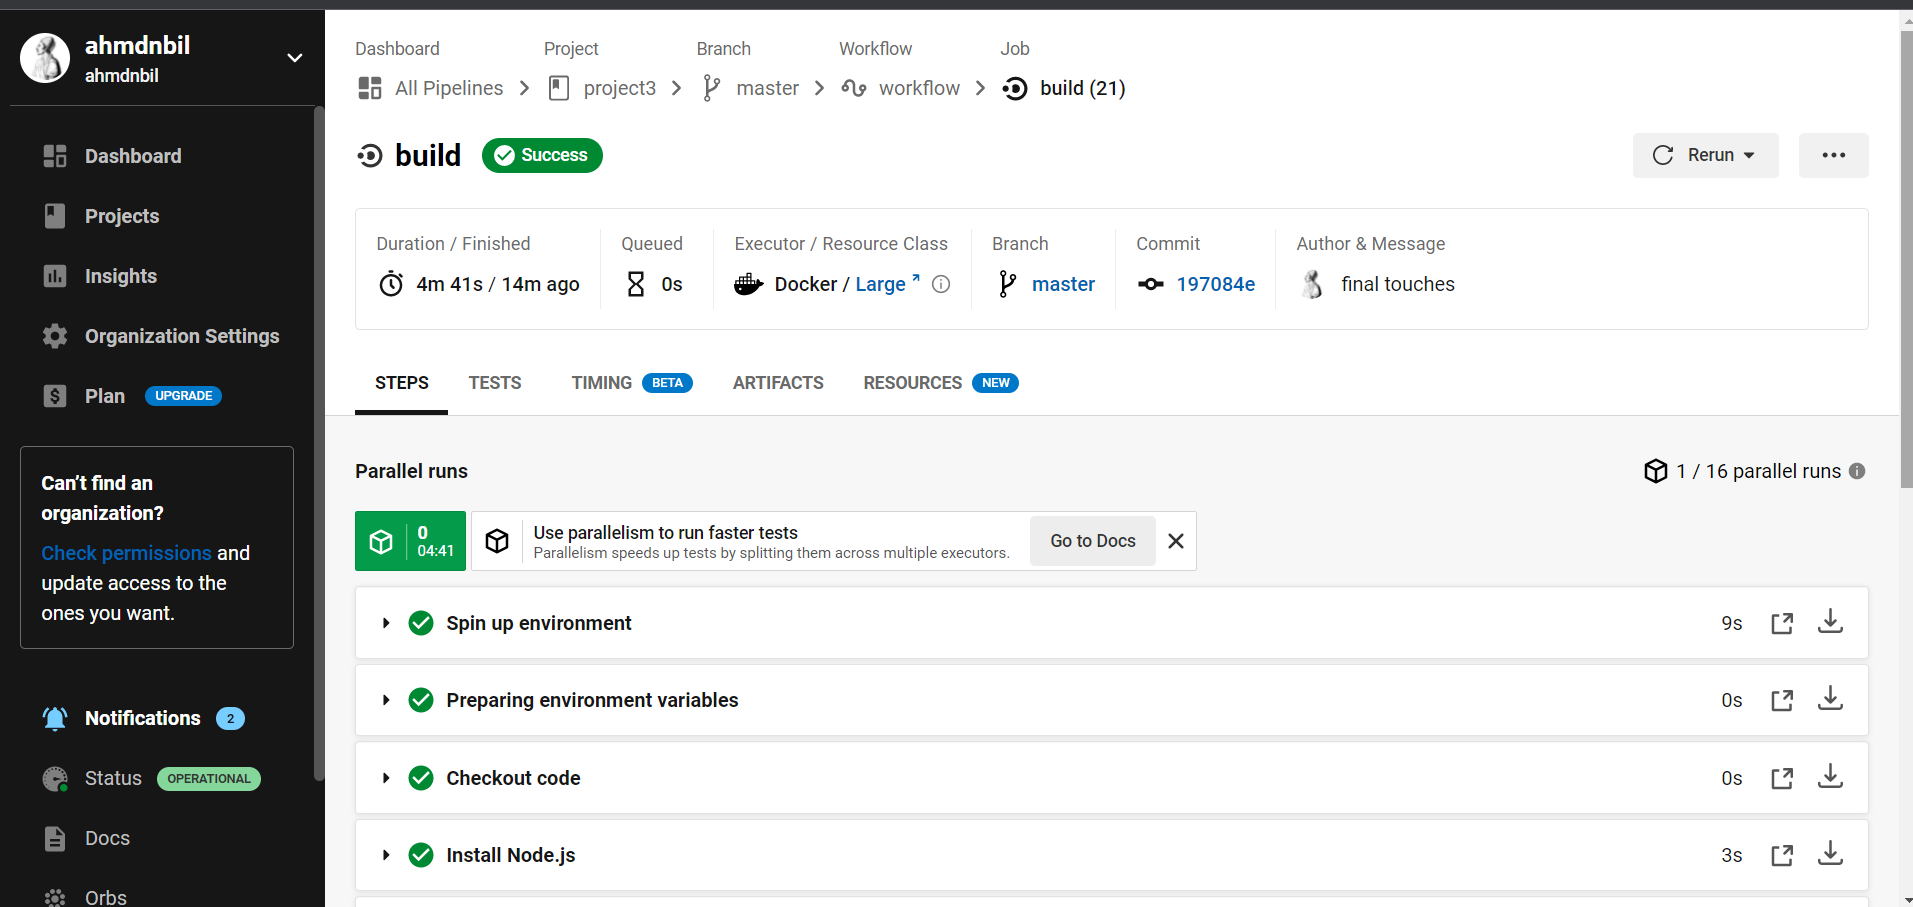
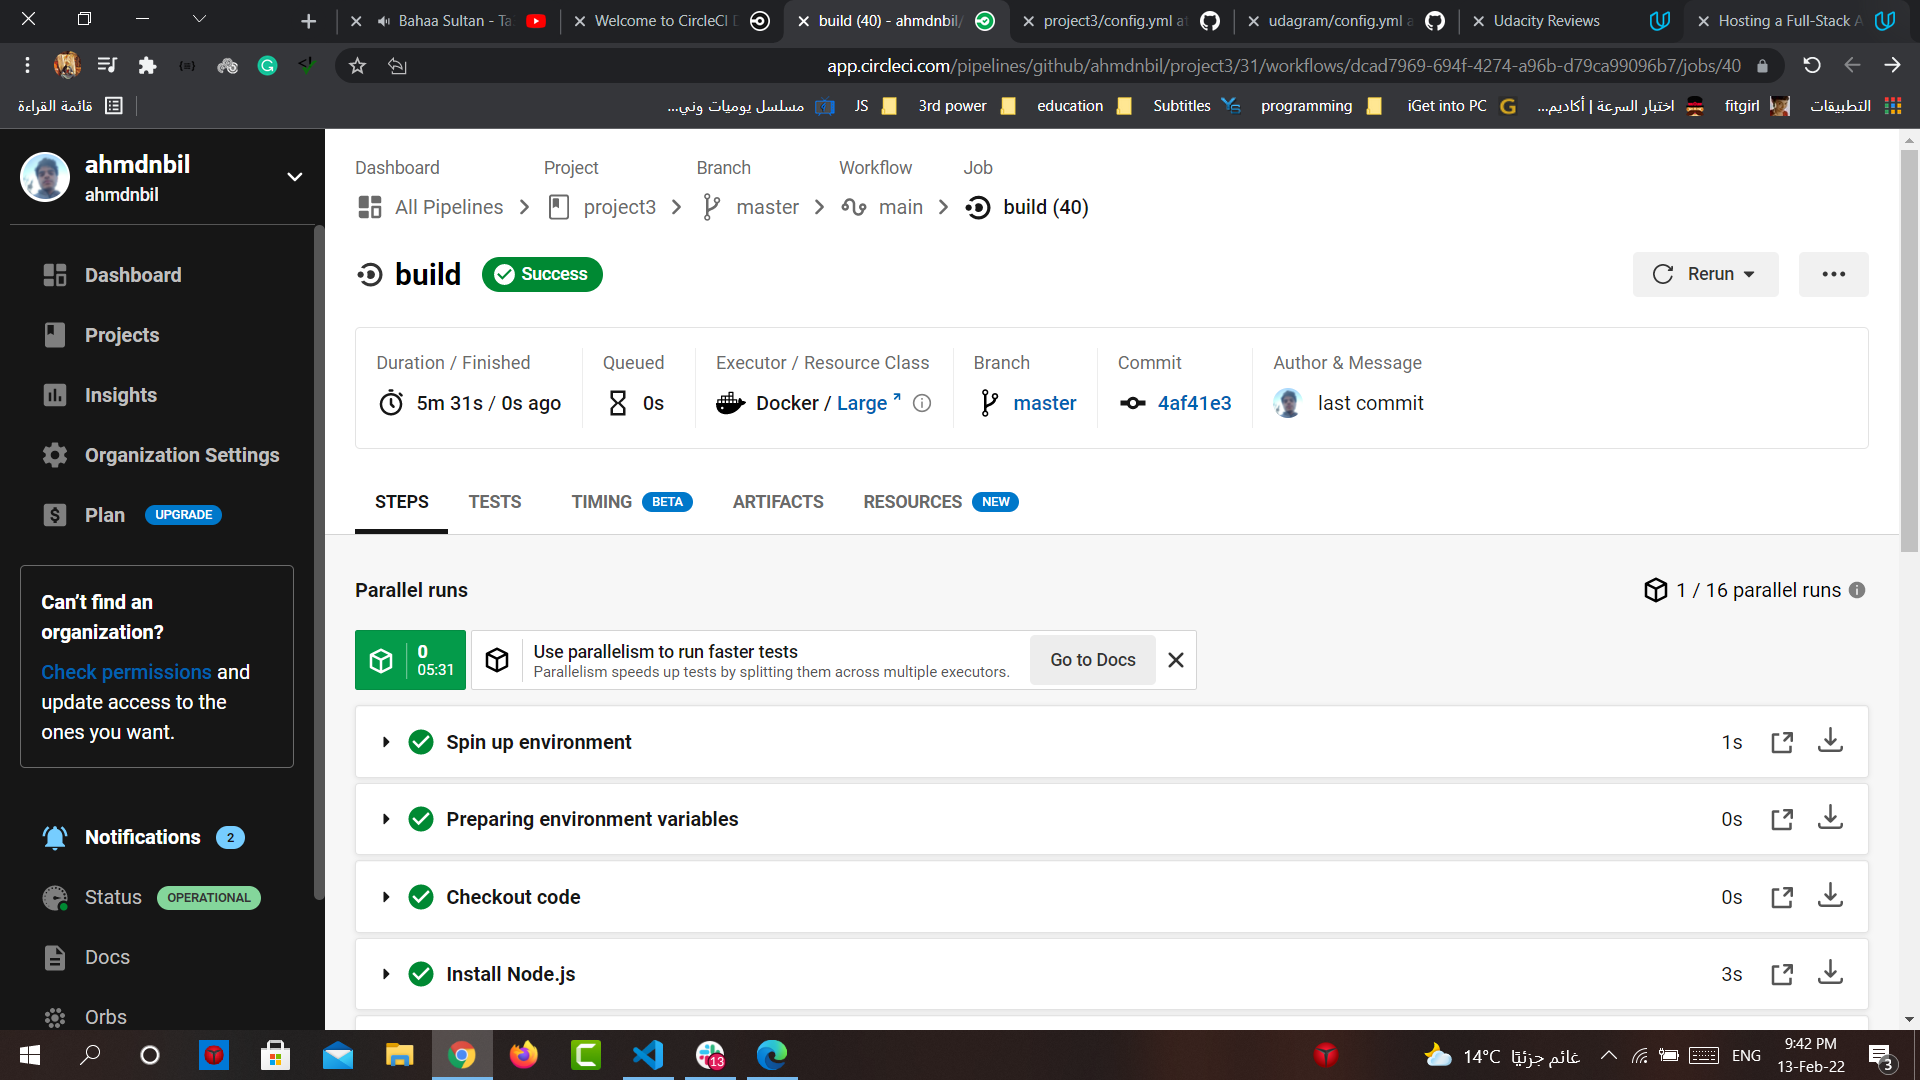
last commit

diff --git a/Docs/pipeline-process.md b/Docs/pipeline-process.md
@@ -1,0 +1,27 @@
+# pipline
+
+- ***___circleci success___***
+![pic1](../screenshots/CircleCi/circleCi1.png)
+![pic2](../screenshots/CircleCi/circleCi2.png)
+
+- ***___circleci variables___***
+![pic3](../screenshots/CircleCi/variable_env_for_circleci.png)
+
+### proccess automation:
+1. sign up environment
+2. checkout code (geting code from github)
+3. installing Node.js
+4. installing AWS CLI
+5. configuration to AWS CLI with access-key-id, secret-access-key and region
+6. installing elastic beanstalk
+7. installing independencies for server
+8. installing independencies for frontend
+9. building front-end folder
+10. building back-end folder
+11. testing application
+12. deploying application to elastic beanstalk
+13. deploying static files to s3
+14. set environment variables to elastic beanstalk for connection with database
+
+### diagram for this proccess
+![pic4](../Diagrams/CircleCi.png)

diff --git a/Runbook for pipeline.md b/Runbook for pipeline.md
@@ -8,6 +8,7 @@
 8- installing independencies for frontend
 9- building front-end folder
 10- building back-end folder
-11- deploying application to elastic beanstalk
-12- deploying static files to s3
-13- set environment variables to elastic beanstalk for connection with database
+11- testing application
+12- deploying application to elastic beanstalk
+13- deploying static files to s3
+14- set environment variables to elastic beanstalk for connection with database

diff --git a/README.md b/README.md
@@ -43,7 +43,8 @@
 ![DB](./screenshots/Database_status.png)
 
 - ***screenshots for circleci***
-![Circleci1](./screenshots/CircleCi/CircleCi1.png)
+![Circleci1](./screenshots/CircleCi/circleCi1.png)
+![Circleci2](./screenshots/CircleCi/circleCi2.png)
 ![Circleci_Variable](./screenshots/CircleCi/variable_env_for_circleci.png)
 
 - ***screenshot for website***
